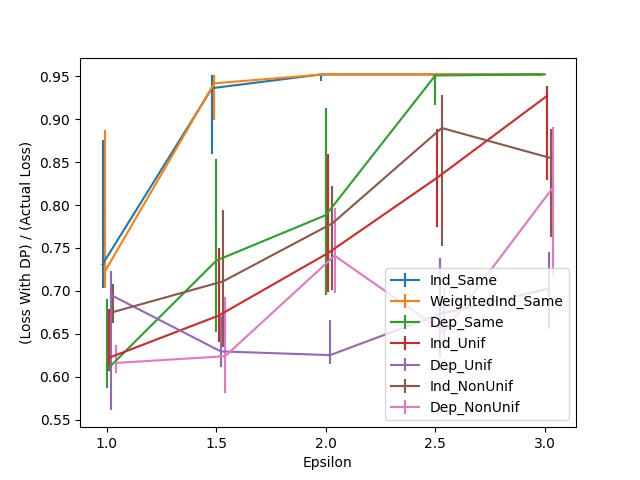
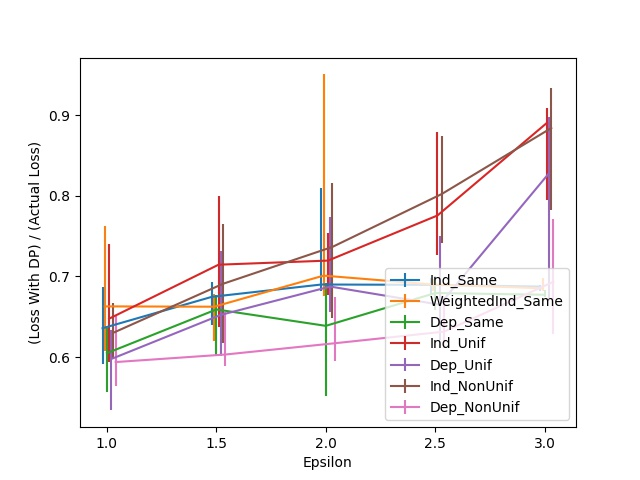
Correct for privacy in feature selection

diff --git a/multi-dim/covtype_rff_efficacy.py b/multi-dim/covtype_rff_efficacy.py
@@ -39,13 +39,14 @@ if __name__ == "__main__":
 	l_name = ['Cover_Type']
 	f_names = ['Elevation', 'Aspect', 'Slope', 'Horizontal_Distance_To_Hydrology', \
 		'Vertical_Distance_To_Hydrology', 'Horizontal_Distance_To_Roadways', \
-		'Vertical_Distance_To_Roadways', 'Hillshade_9am', 'Hillshade_Noon', 'Hillshade_3pm', \
-		'Horizontal_Distance_To_Fire_Points']
+		'Hillshade_9am', 'Hillshade_Noon', 'Hillshade_3pm', 'Horizontal_Distance_To_Fire_Points']
 	f_train, l_train, f_test, l_test = prep_data(file, l_name)
 
 	f_train = f_train[f_names]
-	l_train = l_train[l_train['Cover_Type'] in [6, 7]]
-	f_train = f_train.loc[f_train.index]
+	l_train = l_train[(l_train['Cover_Type'] == 6) | (l_train['Cover_Type'] == 7)]
+	f_train = f_train.loc[l_train.index]
+	l_test = l_test[(l_test['Cover_Type'] == 6) | (l_test['Cover_Type'] == 7)]
+	f_test = f_test.loc[l_test.index]
 	print(l_train.value_counts())
 	print(l_test.value_counts())
 	
@@ -83,9 +84,8 @@ if __name__ == "__main__":
 		for trial in range(num_trials):
 			print('Trial %i' % (trial + 1))
 			# TODO: Maybe create a fit_transform and transform function for RFFs too.
-			omega, beta, f_train_rff = get_rffs(f_train.to_numpy(), dim)
+			omega, beta, f_train_rff = get_rffs(f_train.to_numpy(), dim * 100)
 			f_test_rff = 2 ** (0.5) * np.cos(np.matmul(f_test.to_numpy(), omega) + beta)
-			print(f_train_rff.shape)
 
 			for alg in algs:
 				trial_dict[alg].append(get_loss(f_train_rff, l_train.to_numpy(), f_test_rff, l_test.to_numpy()))

diff --git a/multi-dim/feature_selection.py b/multi-dim/feature_selection.py
@@ -27,7 +27,7 @@ def sample_closest_vecs(reduced_features, mat, vec_norm, p = None):
 		subsample = sample(range(mat.shape[0]), reduced_features)
 	else:	
 		subsample = np.random.choice(mat.shape[0], size = reduced_features, replace = False, p = p)
-	return [choice([-1, 1]) if i not in subsample else 1.0 for i in range(mat.shape[0])]
+	return [0 if i not in subsample else 1.0 for i in range(mat.shape[0])]
 
 class Feature_Selection:
 	def __init__(self, feat_eps, index_universe, feat_type):

diff --git a/multi-dim/experiment_allsketches_utils.py b/multi-dim/experiment_allsketches_utils.py
@@ -18,7 +18,7 @@ def prep_data(file, l_name, index_name = None, f_names = None, test_size = 0.2, 
 		df = pd.read_csv(file).set_index(index_name)
 	else:
 		df = pd.read_csv(file)
-	
+
 	if f_names is None:
 		f_names = list(df.columns)
 		f_names.remove(l_name[0])
